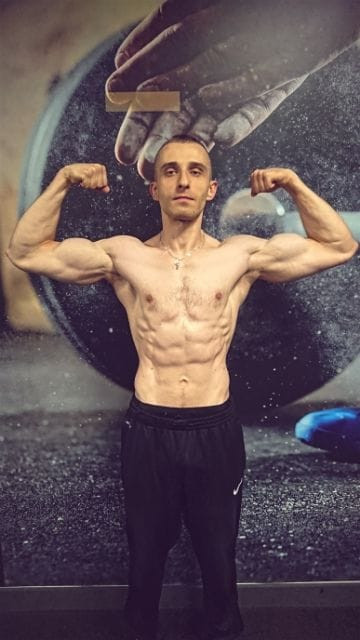
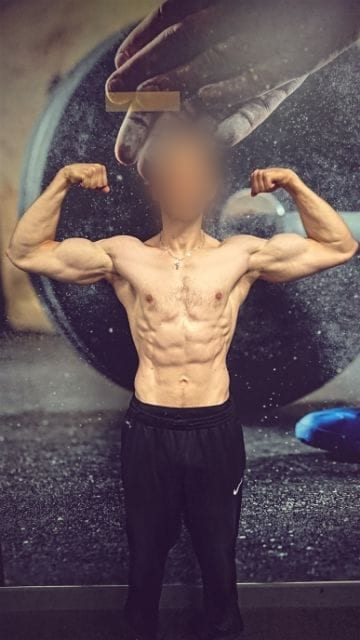
Blur Krzysztof's face and grey out inactive mobile slides

Changed region(s): [[0.3667, 0.1562, 0.6417, 0.375]]

diff --git a/src/app/page.module.css b/src/app/page.module.css
@@ -722,10 +722,10 @@
     transform: none;
   }
 
-  .transformation img {
+  /* Bieżący slajd w kolorze, pozostałe czarno-białe */
+  .slideCurrent img {
     filter: none;
   }
-
 
   .section .transformationName {
     display: none;
